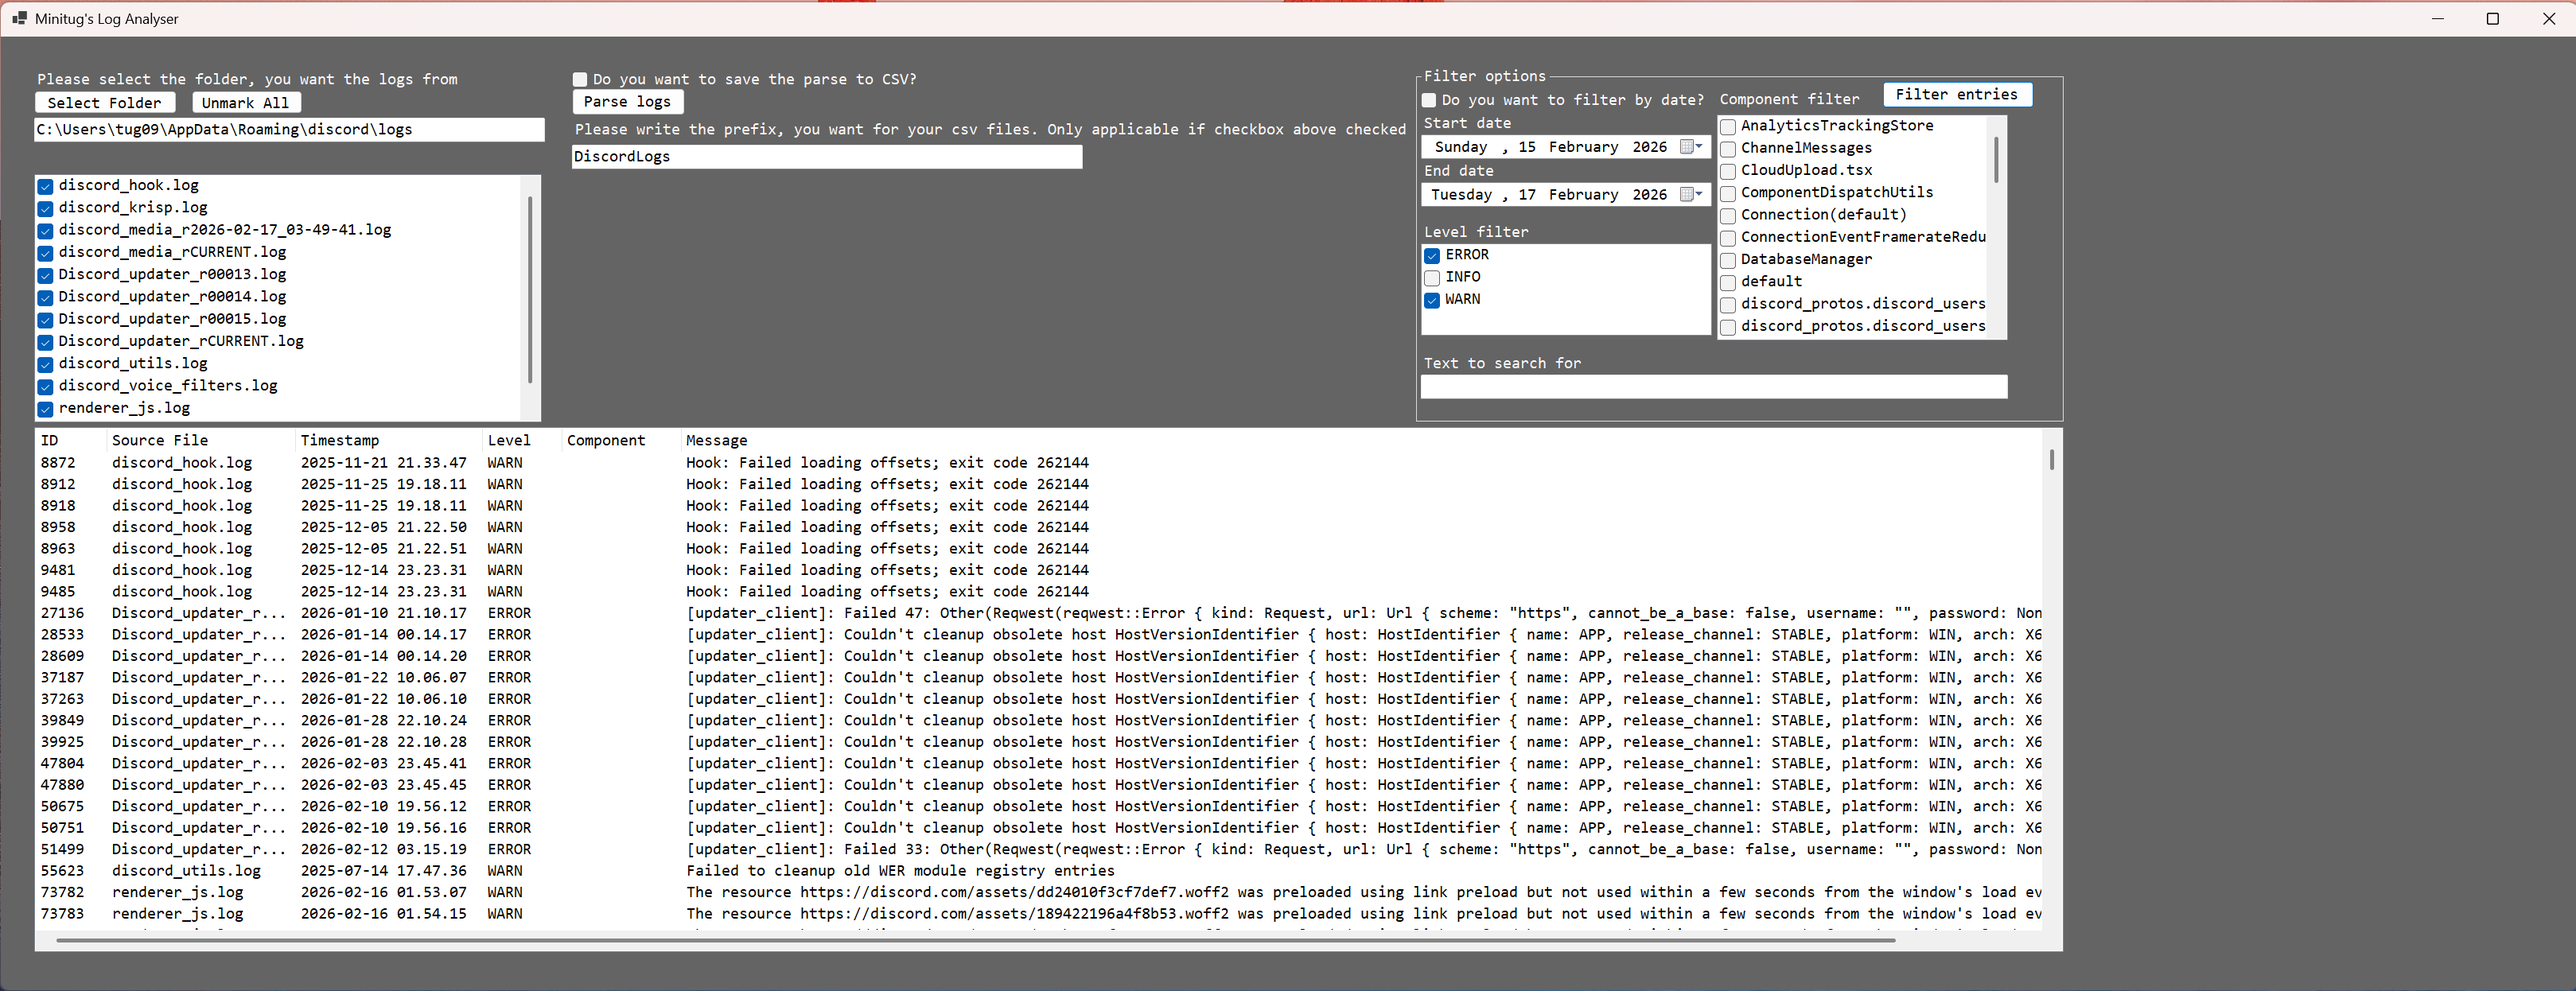
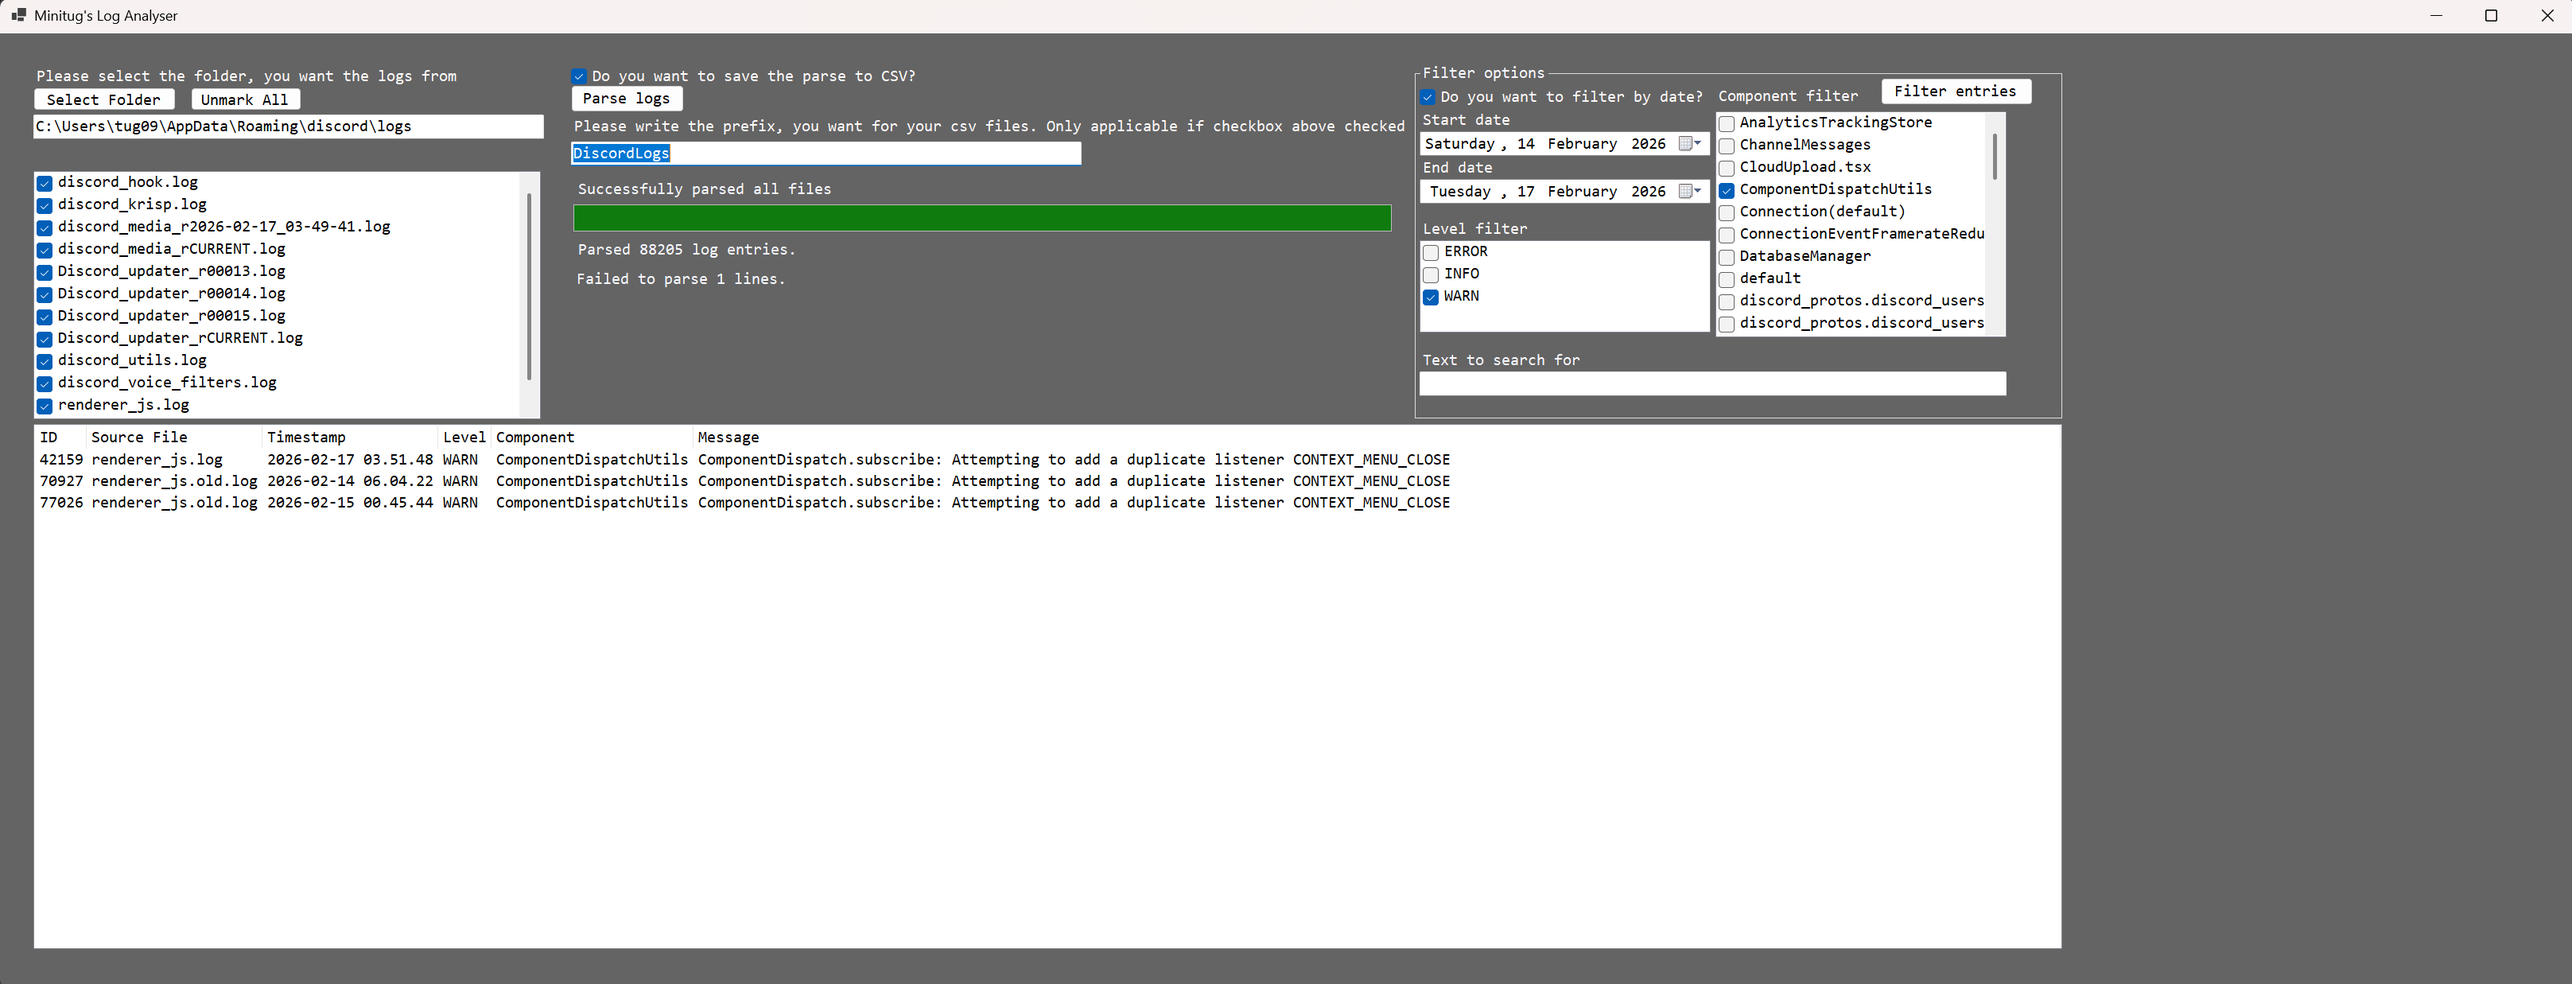
Added progress bar, automatic column sizes, updated SS, fixed ID's

Changed region(s): [[0.0, 0.0, 1.0, 0.983], [0.5622, 0.3379, 0.6246, 0.3686], [0.9994, 0.983, 1.0, 1.0]]

diff --git a/LogFileAnalyser/LogAnalyserGUI.cs b/LogFileAnalyser/LogAnalyserGUI.cs
@@ -1,3 +1,5 @@
+using System.Numerics;
+
 namespace LogFileAnalyser
 {
     public partial class LogAnalyserGUI : Form
@@ -86,13 +88,15 @@ namespace LogFileAnalyser
             _selectedFolder = newFolderPath;
         }
 
-        private void btnParseLogs_Click(object sender, EventArgs e)
+        private async void btnParseLogs_Click(object sender, EventArgs e)
         {
             bool saveToCSV = chkBoxSaveCSV.Checked;
             List<string> selectedFiles = chkListLogFiles.CheckedItems.Cast<string>().ToList();
             string csvPrefix = txtCSVPrefix.Text.Trim();
             string path = _selectedFolder;
 
+            btnParseLogs.Enabled = false;
+            
             try
             {
                 if (selectedFiles.Count == 0)
@@ -101,7 +105,22 @@ namespace LogFileAnalyser
                     return;
                 }
 
-                _currentLogEntries = LogParser.ParseFiles(selectedFiles, path);
+                int failedCount;
+                (_currentLogEntries, failedCount) = await Task.Run(() =>
+                    LogParser.ParseFiles(selectedFiles, path, (current, totalFiles, parsed) =>
+                    {
+                        ParseProgressBar.Invoke(() =>
+                        {
+                            ParseProgressBar.Maximum = totalFiles;
+                            ParseProgressBar.Value = current;
+                            lblProgressBar.Text = $"Parsing file {current} of {totalFiles}...";
+                            lblEntriesParsed.Text = $"Parsed {parsed} log entries.";
+                        });
+                    })
+                );
+
+                lblProgressBar.Text = "Successfully parsed all files"; 
+                lblEntriesFailed.Text = $"Failed to parse {failedCount} lines.";
 
                 populateListView();
 
@@ -119,6 +138,8 @@ namespace LogFileAnalyser
             {
                 MessageBox.Show($"An error occurred while parsing logs: {ex.Message}", "Error", MessageBoxButtons.OK, MessageBoxIcon.Error);
             }
+
+            btnParseLogs.Enabled = true;
         }
 
         private void btnMarkAllNone_Click(object sender, EventArgs e)
@@ -217,6 +238,20 @@ namespace LogFileAnalyser
             listViewParsedLines.Items.AddRange(items);
 
             listViewParsedLines.EndUpdate();
+
+            for (int i = 0; i < listViewParsedLines.Columns.Count - 1; i++)
+            {
+                listViewParsedLines.Columns[i].Width = -2; // Autosize to largest content
+            }
+
+            int otherColsWidth = 0;
+            for (int i = 0; i < listViewParsedLines.Columns.Count - 1; i++)
+            {
+                otherColsWidth += listViewParsedLines.Columns[i].Width;
+            }
+
+            int remainingWidth = listViewParsedLines.ClientSize.Width - otherColsWidth;
+            listViewParsedLines.Columns[listViewParsedLines.Columns.Count - 1].Width = remainingWidth > 50 ? remainingWidth : 50;
 
             chkListFilterLevel.Items.Clear();
             chkListFilterLevel.Items.AddRange(_currentLogEntries

diff --git a/LogFileAnalyser/LogAnalyserGUI.Designer.cs b/LogFileAnalyser/LogAnalyserGUI.Designer.cs
@@ -53,6 +53,10 @@
             groupBox1 = new GroupBox();
             lblTextSearch = new Label();
             txtBoxTxtSearch = new TextBox();
+            ParseProgressBar = new ProgressBar();
+            lblEntriesParsed = new Label();
+            lblProgressBar = new Label();
+            lblEntriesFailed = new Label();
             groupBox1.SuspendLayout();
             SuspendLayout();
             // 
@@ -312,12 +316,53 @@
             txtBoxTxtSearch.Size = new Size(738, 31);
             txtBoxTxtSearch.TabIndex = 23;
             // 
+            // ParseProgressBar
+            // 
+            ParseProgressBar.Location = new Point(721, 215);
+            ParseProgressBar.Name = "ParseProgressBar";
+            ParseProgressBar.Size = new Size(1029, 34);
+            ParseProgressBar.TabIndex = 24;
+            // 
+            // lblEntriesParsed
+            // 
+            lblEntriesParsed.AutoSize = true;
+            lblEntriesParsed.ForeColor = Color.GhostWhite;
+            lblEntriesParsed.Location = new Point(723, 260);
+            lblEntriesParsed.Name = "lblEntriesParsed";
+            lblEntriesParsed.Size = new Size(175, 23);
+            lblEntriesParsed.TabIndex = 25;
+            lblEntriesParsed.Text = "Entries parsed:";
+            // 
+            // lblProgressBar
+            // 
+            lblProgressBar.AutoSize = true;
+            lblProgressBar.ForeColor = Color.GhostWhite;
+            lblProgressBar.Location = new Point(723, 184);
+            lblProgressBar.Name = "lblProgressBar";
+            lblProgressBar.Size = new Size(230, 23);
+            lblProgressBar.TabIndex = 26;
+            lblProgressBar.Text = "Progress description";
+            // 
+            // lblEntriesFailed
+            // 
+            lblEntriesFailed.AutoSize = true;
+            lblEntriesFailed.ForeColor = Color.GhostWhite;
+            lblEntriesFailed.Location = new Point(721, 297);
+            lblEntriesFailed.Name = "lblEntriesFailed";
+            lblEntriesFailed.Size = new Size(175, 23);
+            lblEntriesFailed.TabIndex = 27;
+            lblEntriesFailed.Text = "Entries failed:";
+            // 
             // LogAnalyserGUI
             // 
             AutoScaleDimensions = new SizeF(11F, 23F);
             AutoScaleMode = AutoScaleMode.Font;
             BackColor = SystemColors.WindowFrame;
             ClientSize = new Size(3238, 1199);
+            Controls.Add(lblEntriesFailed);
+            Controls.Add(lblProgressBar);
+            Controls.Add(lblEntriesParsed);
+            Controls.Add(ParseProgressBar);
             Controls.Add(groupBox1);
             Controls.Add(btnMarkAllNone);
             Controls.Add(listViewParsedLines);
@@ -366,5 +411,9 @@
         private GroupBox groupBox1;
         private Label lblTextSearch;
         private TextBox txtBoxTxtSearch;
+        private ProgressBar ParseProgressBar;
+        private Label lblEntriesParsed;
+        private Label lblProgressBar;
+        private Label lblEntriesFailed;
     }
 }

diff --git a/LogFileAnalyser/LogParser.cs b/LogFileAnalyser/LogParser.cs
@@ -13,7 +13,11 @@ namespace LogFileAnalyser
         private string _logPath;
         private string _logFileName;
 
+        private static string _knownFailPath = Path.Combine(AppDomain.CurrentDomain.BaseDirectory, "Resources", "KnownFailPatterns.txt");
+
         private static int _nextID = 1;
+
+        private static List<String> _knownFails = LoadKnownFails(_knownFailPath);
 
         private static readonly string[] _timestampFormats =
         {
@@ -175,12 +179,9 @@ namespace LogFileAnalyser
 
         internal static void SaveToCSV(List<LogEntry> entries, string logSource)
         {
-            string knownFailPath = Path.Combine(AppDomain.CurrentDomain.BaseDirectory, "Resources", "KnownFailPatterns.txt");
-            var knownFails = LoadKnownFails(knownFailPath);
-
             var groupedFailed = _failedEntries
                 .GroupBy(e => e.Message)
-                .Where(g => !knownFails.Any(f => g.Key.Contains(f)))
+                .Where(g => !_knownFails.Any(f => g.Key.Contains(f)))
                 .Select(g => new { Message = g.Key, Count = g.Count(), g.First().SourceFile })
                 .OrderByDescending(g => g.Count)
                 .ToList();
@@ -219,23 +220,39 @@ namespace LogFileAnalyser
                 .ToList();
         }
 
-        internal static List<LogEntry> ParseFiles(List<string> selectedFiles, string folderPath)
+        internal static (List<LogEntry>, int failedCount) ParseFiles(
+            List<string> selectedFiles,
+            string folderPath,
+            Action<int, int, int> progressCallback = null)
         {
             _nextID = 1;
+            _failedEntries.Clear();
             List<LogEntry> logEntries = new List<LogEntry>();
             List<string> fullPaths = selectedFiles.Select(file => Path.Combine(folderPath, file)).ToList();
+            int totalFiles = fullPaths.Count;
+            int current = 0;
+            int totalEntriesParsed = 0;
+
             foreach (var file in fullPaths)
             {
                 LogParser parser = new LogParser(file);
                 var logs = parser.ParseLogs();
 
-                foreach (var log in logs)
-                    log.ID = _nextID++;
-
                 logEntries.AddRange(logs);
+
+                totalEntriesParsed += logs.Count;
+                current++;
+                progressCallback?.Invoke(current, totalFiles, totalEntriesParsed);
             }
-            
-            return logEntries;
+
+            var groupedFailed = _failedEntries
+                .GroupBy(e => e.Message)
+                .Where(g => !_knownFails.Any(f => g.Key.Contains(f)))
+                .Select(g => new { Message = g.Key, Count = g.Count(), g.First().SourceFile })
+                .OrderByDescending(g => g.Count)
+                .ToList();
+
+            return (logEntries, groupedFailed.Count);
         }
     }
 }
